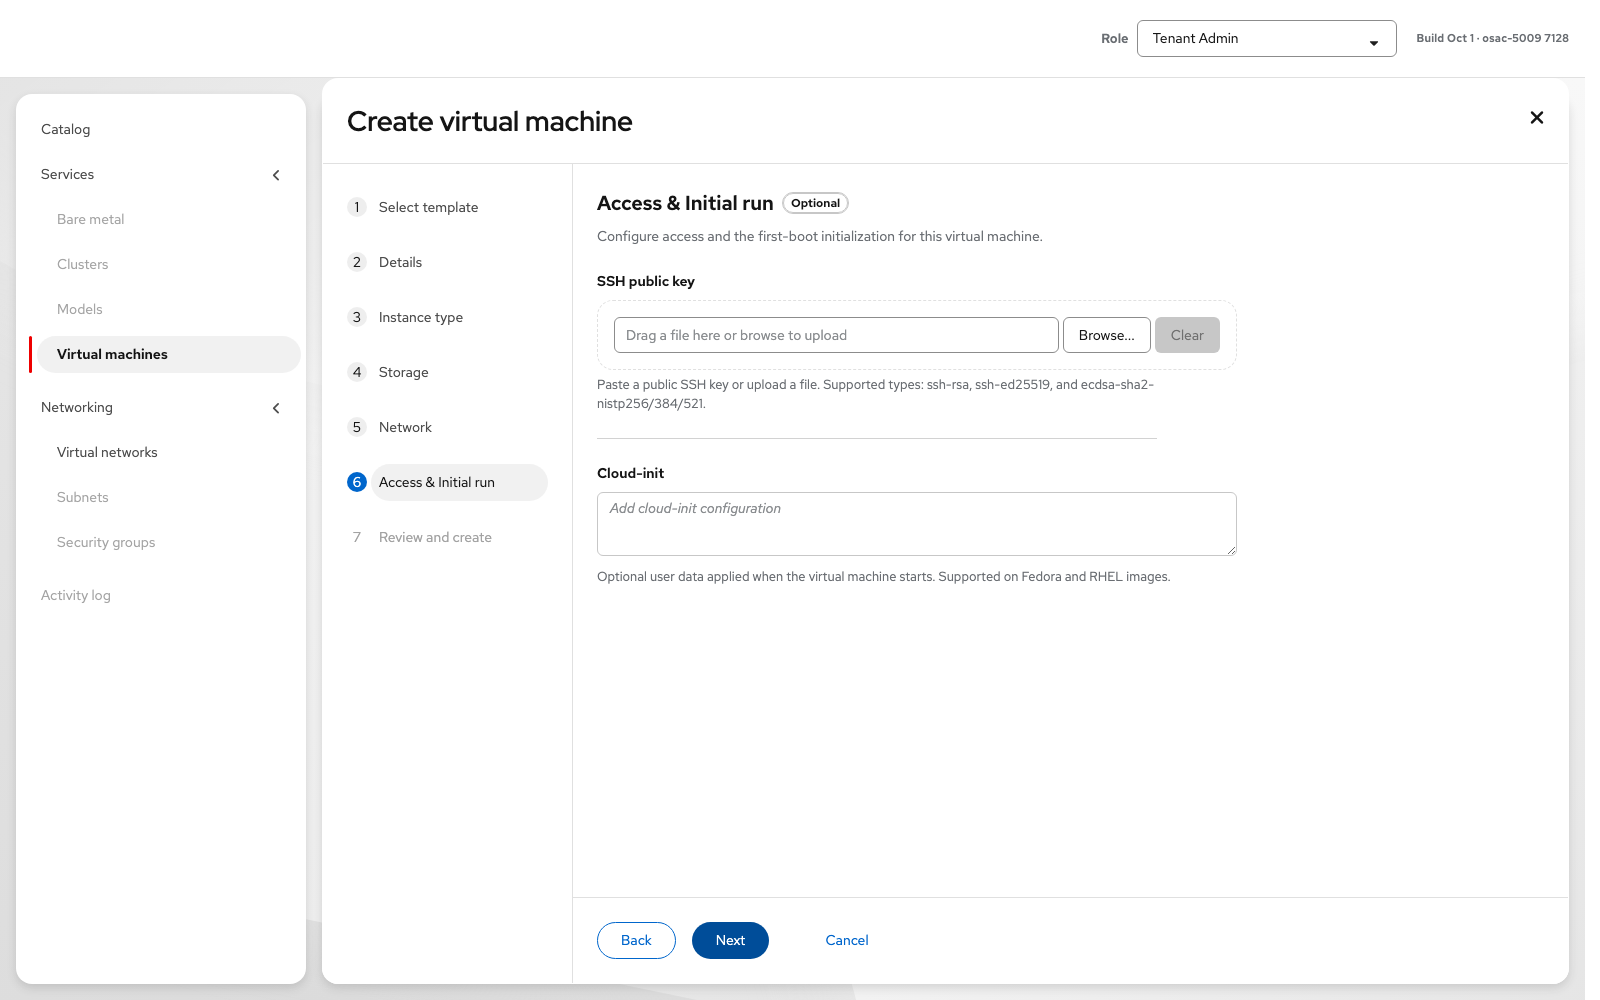
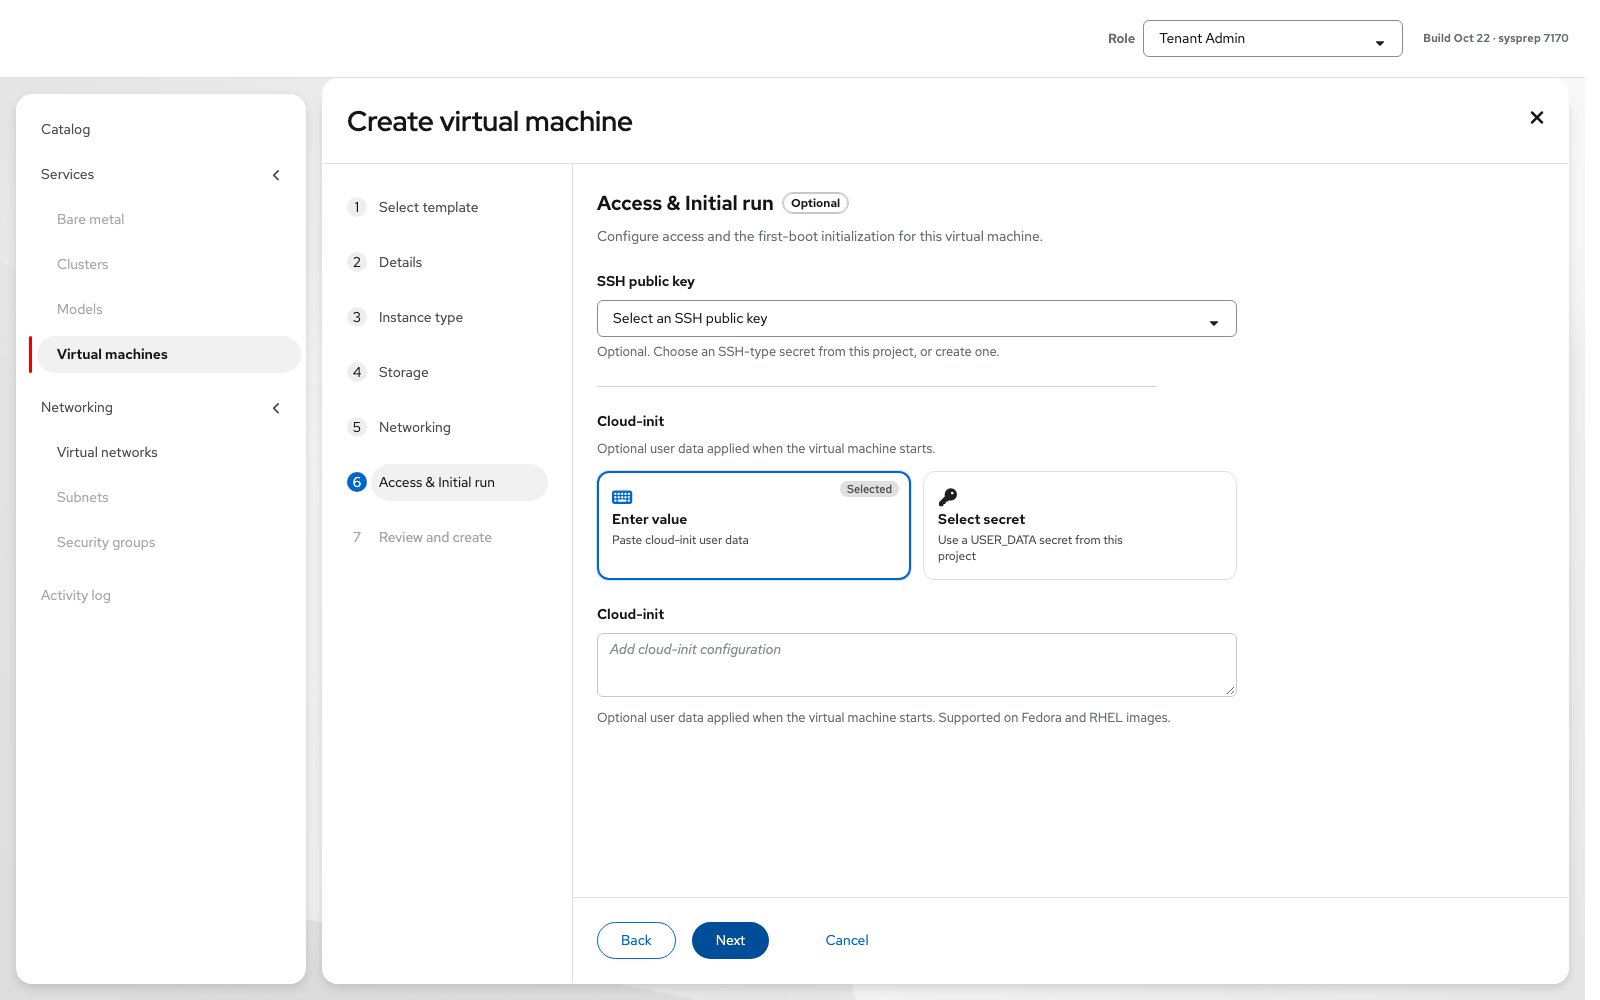
Publish Sysprep Access without Save as secret (build 7170).

diff --git a/vmaas-ux-prototype.html b/vmaas-ux-prototype.html
@@ -4204,7 +4204,6 @@
     #overlay #wiz-panel .add-disk-action,
     #overlay #wiz-panel .add-network-action,
     #overlay #wiz-panel .inline-sets,
-    #overlay #wiz-panel .sysprep-save-secret,
     #overlay #wiz-panel .sysprep-attach-empty,
     #overlay #wiz-panel .section-block > .form-field ~ .config-section-title {
       max-width: 40rem;
@@ -4412,32 +4411,6 @@
     }
     @media (max-width: 640px) {
       .felt-select-boxes.felt-select-boxes--sysprep-mode { grid-template-columns: 1fr; }
-    }
-    .sysprep-save-secret {
-      display: inline-flex;
-      align-items: center;
-      gap: 8px;
-      margin-top: 12px;
-      max-width: 560px;
-      min-height: 24px;
-      cursor: pointer;
-    }
-    .sysprep-save-secret input[type="checkbox"] {
-      margin: 0;
-      padding: 0;
-      width: 16px;
-      height: 16px;
-      flex: 0 0 16px;
-      align-self: center;
-      accent-color: var(--vmaas-blue, #0066cc);
-      cursor: pointer;
-    }
-    .sysprep-save-secret .sysprep-save-secret__text {
-      margin: 0;
-      font-size: 14px;
-      line-height: 16px;
-      color: var(--vmaas-text, #151515);
-      cursor: pointer;
     }
     .sysprep-attach-empty {
       margin: 8px 0 0;
@@ -4657,15 +4630,6 @@
       margin: 0 0 16px;
       font-weight: 400;
     }
-    .sysprep-save-secret,
-    .form-field > label.sysprep-save-secret,
-    .create-resource-wiz .form-field label.sysprep-save-secret {
-      font-weight: 400;
-    }
-    .sysprep-save-secret .sysprep-save-secret__text {
-      font-weight: 400;
-    }
-
     /* PF6 Felt selectable boxes (cards-as-tiles) — Guest OS, tenant access, etc. */
     .felt-select-boxes {
       display: grid;
@@ -7129,7 +7093,7 @@
               <span class="pf-v6-c-form-control__toggle-icon"><svg viewBox="0 0 320 512" aria-hidden="true" focusable="false"><path d="M31.3 192h257.3c17.8 0 26.7 21.5 14.1 34.1L174.1 354.8c-7.8 7.8-20.5 7.8-28.3 0L17.2 226.1C4.6 213.5 13.5 192 31.3 192z"/></svg></span>
             </span>
           </span>
-          <span class="prototype-build-tag" id="prototype-build-tag">Build Oct 22 · sysprep-cards 7169</span>
+          <span class="prototype-build-tag" id="prototype-build-tag">Build Oct 22 · sysprep 7170</span>
         </div>
       </div>
       <div class="console__body">
@@ -9688,8 +9652,6 @@
       if (d.sysprep == null) d.sysprep = '';
       if (d.sysprepSecretId == null) d.sysprepSecretId = '';
       if (d.sysprepFileName == null) d.sysprepFileName = '';
-      if (d.sysprepSaveAsSecret == null) d.sysprepSaveAsSecret = false;
-      if (d.sysprepSecretName == null) d.sysprepSecretName = '';
     }
 
     function sysprepSecretsForProject(project) {
@@ -9737,22 +9699,6 @@
         return `Provided (hidden) · ${name}`;
       }
       return 'Provided (hidden)';
-    }
-
-    function persistSysprepSecretIfRequested(d = state.data) {
-      ensureSysprepState(d);
-      if (d.sysprepMode !== 'create' || !d.sysprepSaveAsSecret) return null;
-      const xml = String(d.sysprep || '').trim();
-      if (!xml) return null;
-      const base = String(d.sysprepSecretName || '').trim()
-        || `${String(d.name || 'vm').trim() || 'vm'}-unattend`;
-      const safe = base.toLowerCase().replace(/[^a-z0-9-]+/g, '-').replace(/^-+|-+$/g, '') || 'unattend';
-      const id = `sysprep-${safe}-${Math.floor(Math.random() * 90 + 10)}`;
-      const entry = { id, name: safe, project: d.project || 'project-a' };
-      SYSPREP_SECRETS.unshift(entry);
-      d.sysprepSecretId = id;
-      toast(`Sysprep secret “${safe}” saved for Select secret.`, 'success');
-      return entry;
     }
 
     function fieldErrorHtml(field) {
@@ -10070,8 +10016,6 @@
         sysprepMode: 'create', // create | attach (Windows Unattend.xml)
         sysprepSecretId: '',
         sysprepFileName: '',
-        sysprepSaveAsSecret: false,
-        sysprepSecretName: '',
         initMethod: 'cloud-init',
         osImage: 'rhel.10',
         diskImageId: '',
@@ -13128,8 +13072,6 @@
         d.sysprep = '';
         d.sysprepFileName = '';
         d.sysprepSecretId = '';
-        d.sysprepSaveAsSecret = false;
-        d.sysprepSecretName = '';
         d.sysprepMode = 'create';
         if (syncInit) d.initMethod = initMethodForGuestOs(d.guestOsFamily || 'Linux');
       }
@@ -16938,8 +16880,6 @@
       state.data.sysprepMode = 'create';
       state.data.sysprepSecretId = '';
       state.data.sysprepFileName = '';
-      state.data.sysprepSaveAsSecret = false;
-      state.data.sysprepSecretName = '';
       state.data.initMethod = 'cloud-init';
       state.data.sshPublicKey = '';
       state.data.sshKeyFileName = '';
@@ -17877,8 +17817,6 @@
                 d.sysprep = '';
                 d.sysprepFileName = '';
                 d.sysprepSecretId = '';
-                d.sysprepSaveAsSecret = false;
-                d.sysprepSecretName = '';
                 d.sysprepMode = 'create';
               }
               d.diskImageMenuOpen = false;
@@ -19873,16 +19811,6 @@
               <p class="form-helper" id="f-unattend-help">
                 Max size 1 MiB. Stored as a secret; never shown again after create.
               </p>
-              <label class="sysprep-save-secret">
-                <input type="checkbox" id="f-sysprep-save-secret" ${d.sysprepSaveAsSecret ? 'checked' : ''} />
-                <span class="sysprep-save-secret__text">Save as secret for future VM deployments</span>
-              </label>
-              <div class="form-field" id="f-sysprep-secret-name-wrap" style="margin-top:12px;${d.sysprepSaveAsSecret ? '' : 'display:none;'}">
-                <label for="f-sysprep-secret-name">Secret name</label>
-                <input type="text" id="f-sysprep-secret-name"
-                  value="${(d.sysprepSecretName || '').replace(/"/g, '&quot;')}"
-                  placeholder="Optional — defaults from the VM name" />
-              </div>
             </div>
           `;
           const attachPanel = `
@@ -19905,7 +19833,7 @@
                 emptyNoun: 'Sysprep secrets',
                 stacked: true,
                 options: secretOptions,
-              }) : `<p class="sysprep-attach-empty" id="f-sysprep-secret-help">No saved Sysprep secrets in this project yet. Enter a value and enable <strong>Save as secret</strong>.</p>`}
+              }) : `<p class="sysprep-attach-empty" id="f-sysprep-secret-help">No saved Sysprep secrets in this project yet.</p>`}
               ${secrets.length && d.sysprepSecretId ? `
                 <div style="margin-top:8px;">
                   <button type="button" class="pf-v6-c-button pf-m-link pf-m-inline" id="f-sysprep-secret-clear">Clear selection</button>
@@ -20040,17 +19968,6 @@
               renderWizard();
             });
           }
-          const saveChk = panel.querySelector('#f-sysprep-save-secret');
-          const nameWrap = panel.querySelector('#f-sysprep-secret-name-wrap');
-          const nameInput = panel.querySelector('#f-sysprep-secret-name');
-          saveChk?.addEventListener('change', () => {
-            d.sysprepSaveAsSecret = !!saveChk.checked;
-            if (nameWrap) nameWrap.style.display = d.sysprepSaveAsSecret ? '' : 'none';
-          });
-          nameInput?.addEventListener('input', () => {
-            d.sysprepSecretName = nameInput.value;
-          });
-
           const uploadRoot = panel.querySelector('#f-unattend-upload');
           const fileInput = panel.querySelector('#f-unattend-file');
           const filenameInput = panel.querySelector('#f-unattend-filename');
@@ -20677,7 +20594,6 @@
             || '';
           const windowsVm = isWindowsOs(d);
           if (windowsVm) {
-            persistSysprepSecretIfRequested(d);
             d.sshPublicKey = '';
             d.sshKeyFileName = '';
           }
@@ -22519,7 +22435,7 @@
                 stacked: true,
                 invalid: !!state.fieldErrors.ciInit,
                 options: secretOptions,
-              }) : `<p class="sysprep-attach-empty" id="ci-sysprep-secret-help">No saved Sysprep secrets in this project yet. Create one when creating a VM with <strong>Save as secret</strong>.</p>`}
+              }) : `<p class="sysprep-attach-empty" id="ci-sysprep-secret-help">No saved Sysprep secrets in this project yet.</p>`}
               ${secrets.length && c.sysprepSecretId ? `
                 <div style="margin-top:8px;">
                   <button type="button" class="pf-v6-c-button pf-m-link pf-m-inline" id="ci-sysprep-secret-clear">Clear selection</button>
